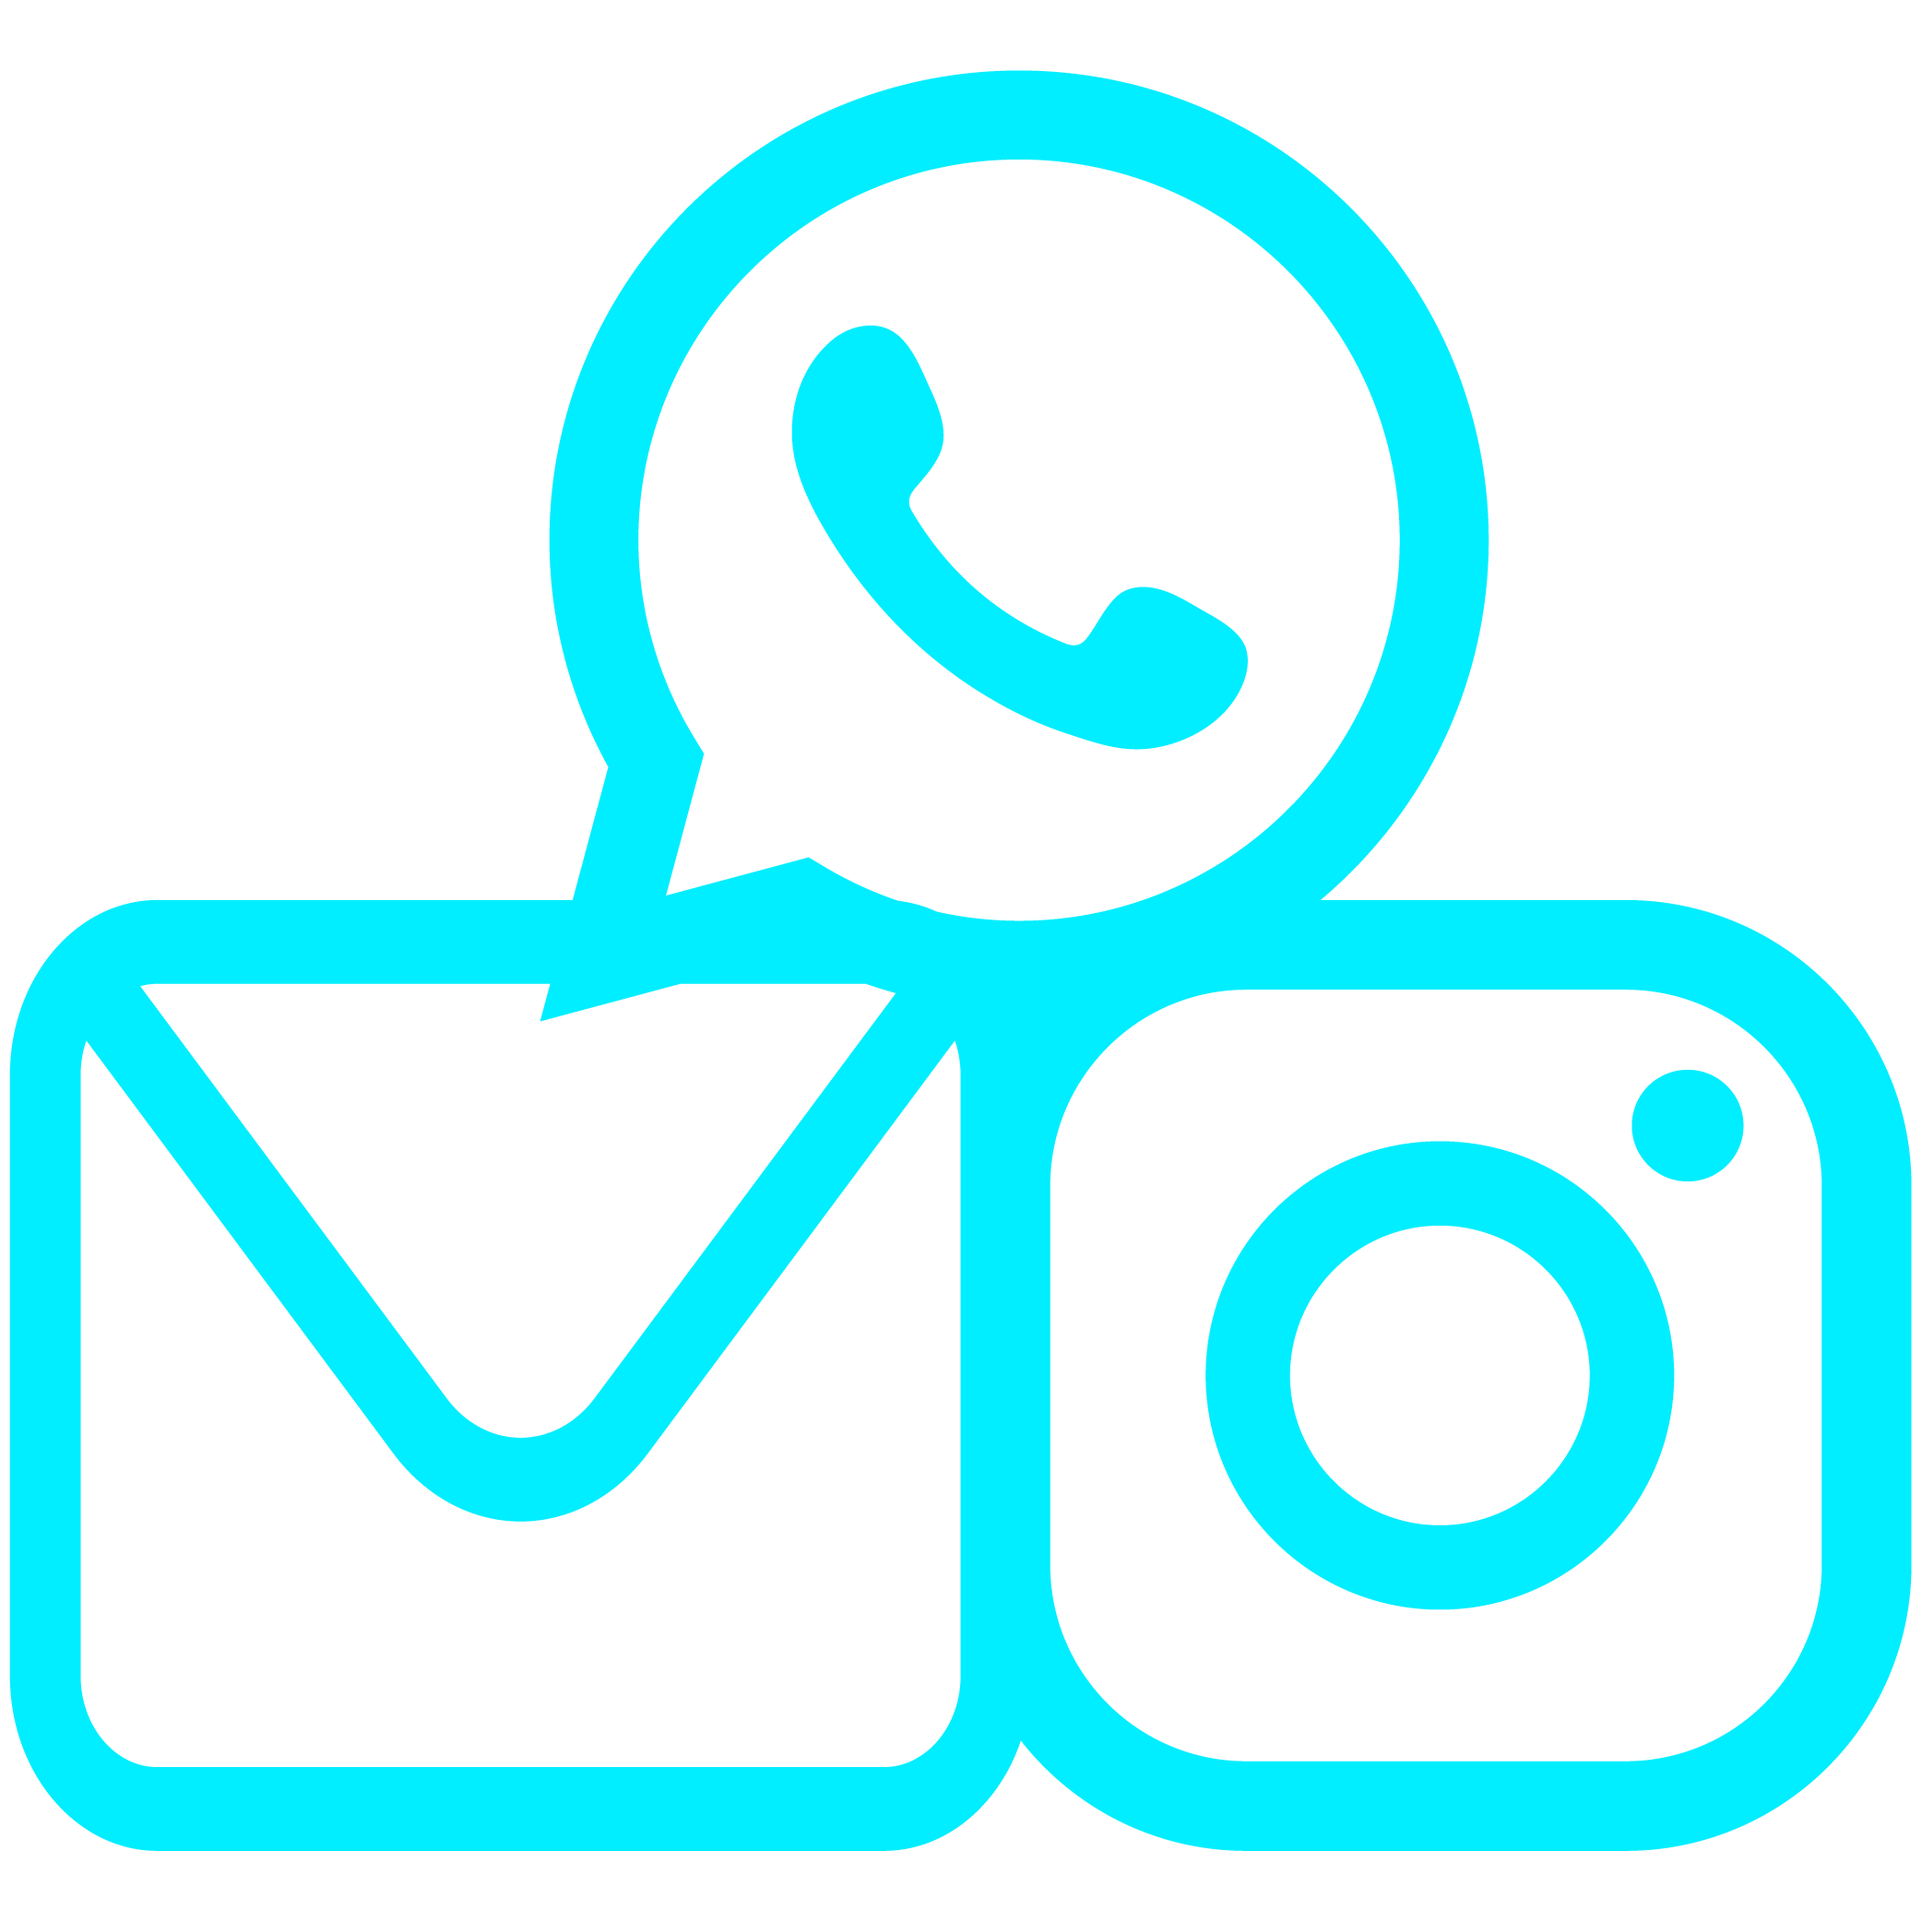
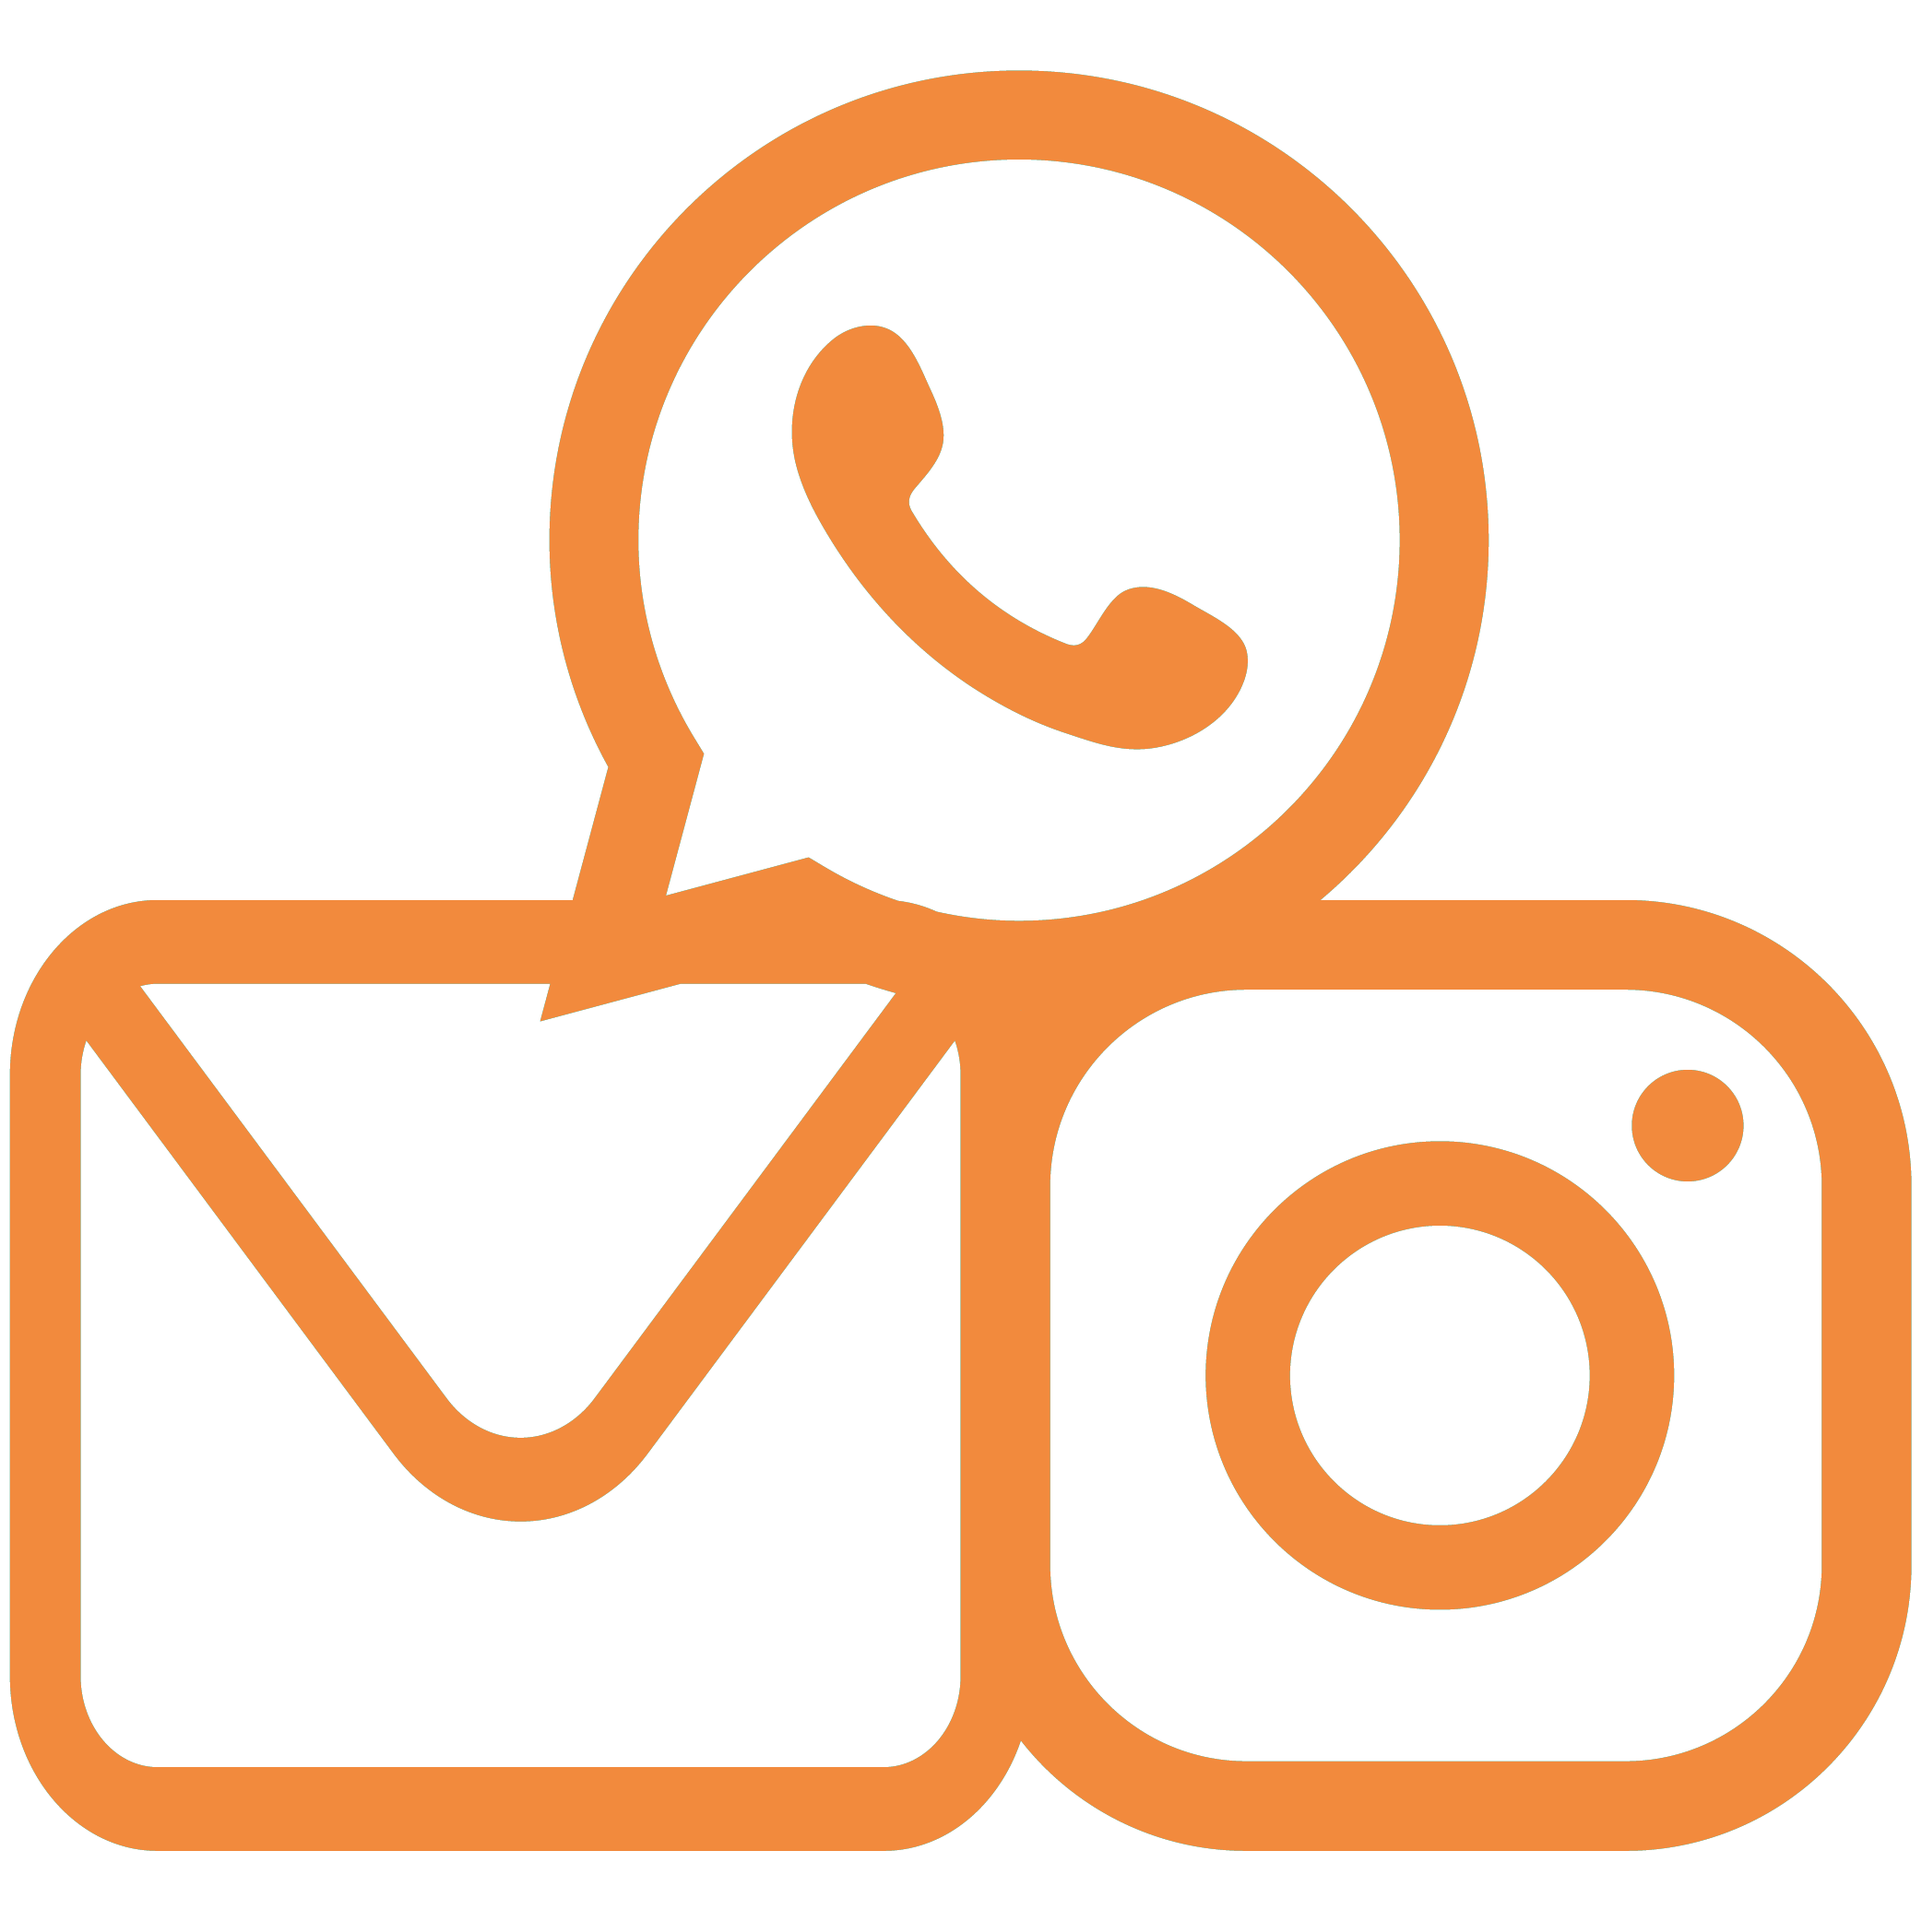
new2

Changed region(s): [[0.0, 0.0312, 0.9981, 0.9669], [0.6238, 0.5614, 0.9045, 0.8421], [0.4055, 0.156, 0.655, 0.4055]]

diff --git a/index.html b/index.html
@@ -2,15 +2,16 @@
 <html lang="pt-br">
 <head>
     <meta charset="UTF-8">
+    <meta http-equiv="X-UA-Compatible" content="IE=edge">
     <meta name="viewport" content="width=device-width, initial-scale=1.0">
     <link rel="stylesheet" href="style.css">
-    <title>Document</title>
+    <link rel="stylesheet" href="https://cdnjs.cloudflare.com/ajax/libs/font-awesome/5.15.4/css/all">
+    <link rel="icon" href="favicon.png" type="image/png">
+    <title>Portfólio</title>
 </head>
 <body>
-
     <header>
-        <a href="#" class="logo">Matheus Reis</a>
-
+        <a href="#" class="logo"><img src="LOGO.png" alt="Matheus Camargos Design"></a>
         <nav>
             <a href="#Home" class="active">Início</a>
             <a href="#Projetos">Projetos</a>
@@ -25,9 +26,19 @@
             <br>
             <p><h3>Lorem, ipsum dolor sit amet consectetur adipisicing elit. Corrupti placeat quaerat eaque aliquid quia harum repellat commodi velit provident quibusdam quidem modi quisquam culpa excepturi, fugiat inventore enim animi perspiciatis.</h3></p>
         </div>
+        <div class="homeimg">
+            <img src="home.jpg" alt="">
+        </div>
     </section>
     <section id="Projetos">
-        
+        <div class="galeria">
+            <div class="gallery-item" data-index="1"><img src="1.jpg" alt=""></div>
+            <div class="gallery-item" data-index="2"><img src="2.jpg" alt=""></div>
+            <div class="gallery-item" data-index="3"><img src="3.jpg" alt=""></div>
+            <div class="gallery-item" data-index="4"><img src="4.jpg" alt=""></div>
+            <div class="gallery-item" data-index="5"><img src="5.jpg" alt=""></div>
+            <div class="gallery-item" data-index="6"><img src="6.jpg" alt=""></div>
+        </div>
     </section>
     <section id="Contato">
         <div class="contato">
@@ -41,5 +52,40 @@
     </section>
 
     <script src="script.js"></script>
+    <script>
+        const galleryItem = document.getElementsByClassName("gallery-item");
+        const lightBoxContainer = document.createElement("div");
+        const lightBoxContent = document.createElement("div");
+        const lightBoxImg = document.createElement("div");
+        const lightBoxPrev = document.createElement("div");
+        const lightBoxNext = document.createElement("div");
+
+        lightBoxContainer.classList.add("lightbox");
+        lightBoxContent.classList.add("lightbox-content");
+        lightBoxPrev.classList.add("fa","fa-angle-left","lightbox-prev");
+        lightBoxNext.classList.add("fa","fa-angle-right","lightbox-next");
+
+        lightBoxContainer.appendChild(lightBoxContent);
+        lightBoxContent.appendChild(lightBoxImg);
+        lightBoxContent.appendChild(lightBoxPrev);
+        lightBoxContent.appendChild(lightBoxNext);
+        document.body.appendChild(lightBoxContainer);
+
+        let index = 1;
+
+        function showLightBox(n) {
+            if (n > galleryItem.length) {
+                index = 1;
+            } else if(n < 1){
+                index = galleryItem.length;
+            }
+
+            let imageLocation = galleryItem[index-1].children[0].getAttribute("src");
+            lightBoxImg.setAttribute("src", imageLocation);
+        }
+
+        function
+
+    </script>
 </body>
 </html>

diff --git a/style.css b/style.css
@@ -21,10 +21,9 @@ header {
 }
 
 .logo {
-    font-size: 25px;
-    color: #fff;
-    text-decoration: none;
-    font-weight: 600;
+    display: flex;
+    height: 50px;
+    font-size: 30px;
 }
 
 nav a {
@@ -38,7 +37,7 @@ nav a {
 
 nav a:hover,
 nav a.active {
-    color: #0ef;
+    color: #F28A3D;
 }
 
 section {
@@ -54,14 +53,18 @@ section:nth-child(odd) {
 .home {
     top: 200px;
     left: 100px;
-    position: relative;
+    position: absolute;
     height: 400px;
     width: 700px;
-    color: #0ef;
+    color: #F28A3D;
 }
 
 .home h3 {
-    color: rgba(0, 238, 255, 0.526);
+    color: #BF6E30;
+}
+
+.homeimg {
+    right: 300px;
 }
 
 .contato {
@@ -76,11 +79,11 @@ section:nth-child(odd) {
 }
 
 .contato h3 {
-    color: rgba(0, 238, 255, 0.526);
+    color: #BF6E30;
 }
 
 .contato h1 {
-    color: #0ef;
+    color: #F28A3D;
 }
 
 .contato a {
@@ -89,14 +92,45 @@ section:nth-child(odd) {
 }
 
 .contato a:hover {
-    color: #0ef;
+    color: #F28A3D;
 }
 
 .img1{
     left: 500px;
-    top: 1600px;
+    top: 1900px;
     position: absolute;
     float: left;
     display: flex;
     height: 400px;
+}
+
+.galeria {
+    display: flex;
+    flex-wrap: wrap;
+    width: 30%;
+    height: 100%;
+    padding: 10px;
+    box-shadow: 0 0 3px 0 rgba(0, 0, 0, 0.3);
+    margin: 100px auto;
+}
+
+.gallery-item {
+    flex-basis: 32.7%;
+    margin-bottom: 6px;
+    opacity: 0.85;
+    cursor: pointer;
+}
+
+.gallery-item:hover {
+    opacity: 1;
+}
+
+.gallery-item img {
+    width: 70%;
+    height: 70%;
+    object-fit: scale-down;
+}
+
+.lightox {
+    
 }
